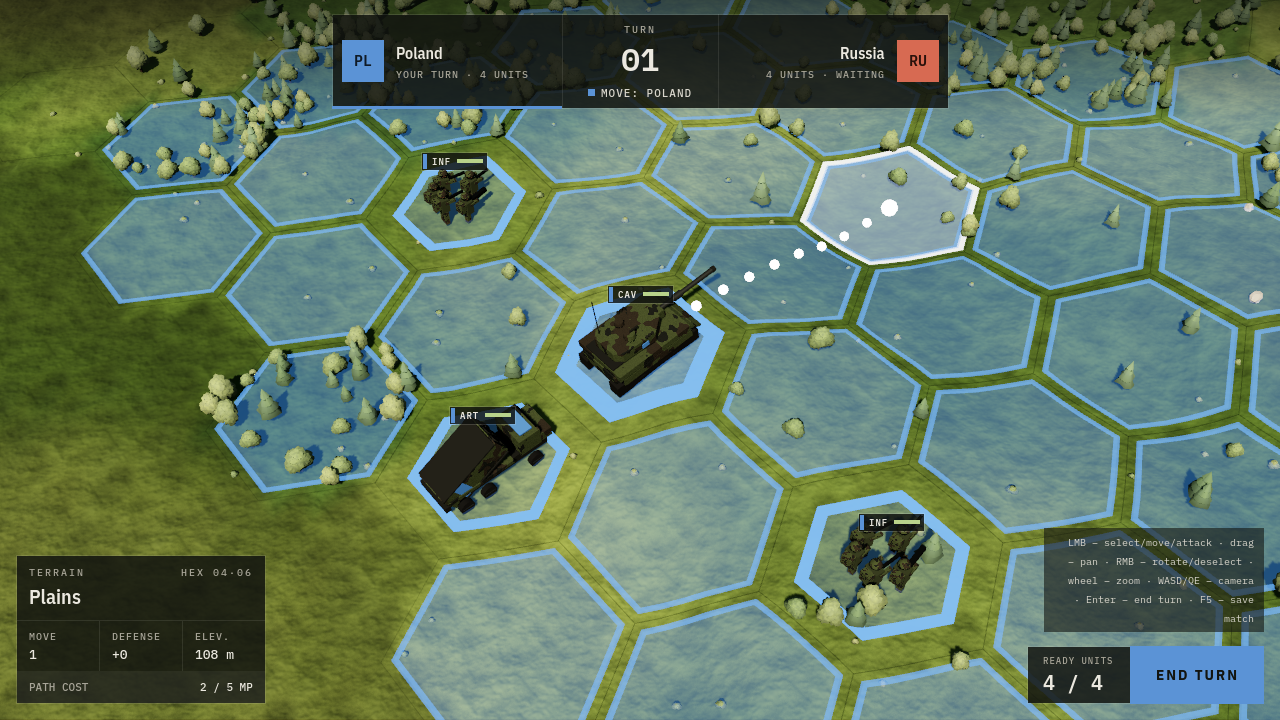
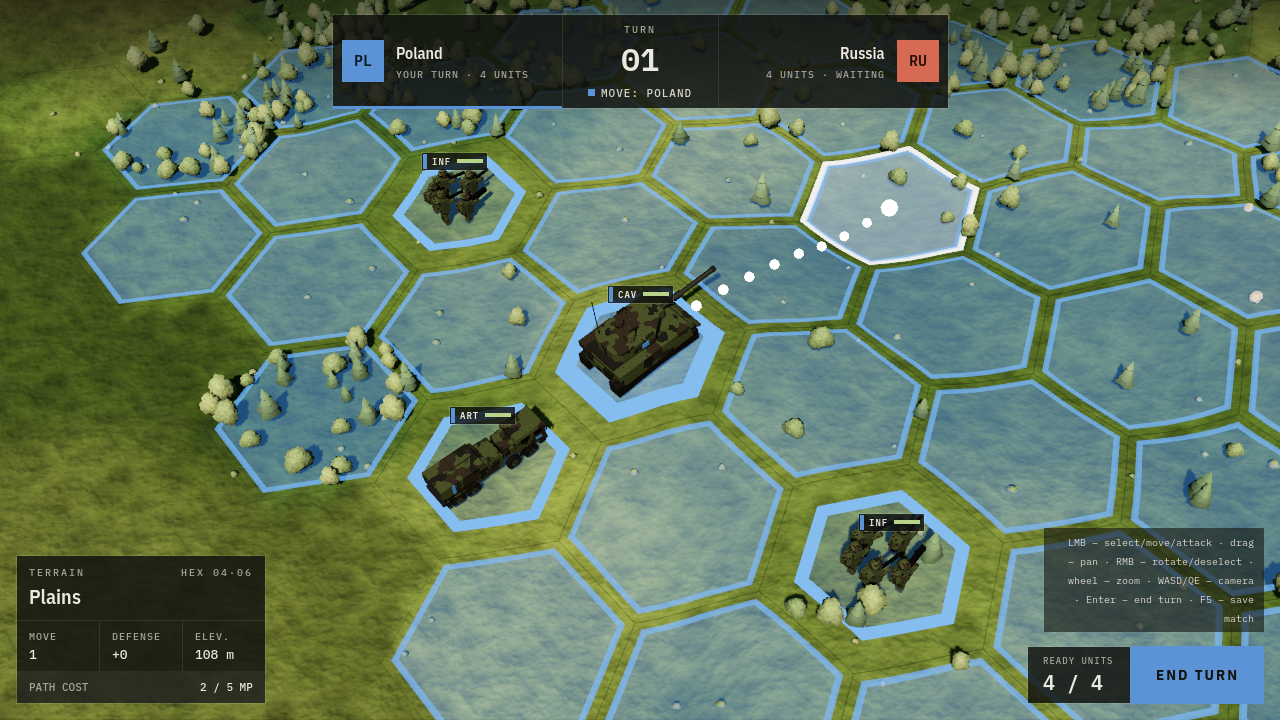
Homar-K model, temporarily used for Polish rocket artillery
Procedural Homar-K (K239PL) model built from its unit catalog entry
(blueprint, side reference, verified dimensions). Until TASK-039a adds
the real unit definitions, UnitModels.MODEL_STAND_INS maps Poland's
rocket_artillery to the homar_k model; Russia keeps the generic one.
Adds homar_k to the model contract kinds and refreshes the README shot.

Changed region(s): [[0.3125, 0.55, 0.4375, 0.7333]]

diff --git a/docs/design/units/units/homar_k/blueprint.md b/docs/design/units/units/homar_k/blueprint.md
@@ -1,0 +1,57 @@
+# Homar-K (K239PL) – model blueprint
+
+Model: `src/presentation/models/homar_k.gd`. Reference: `side_1.png` (clean side view, measured at
+~61 px/m: 670 px = 11 m bumper to rear).
+
+## Scale
+
+Real 11 × 2.8 × 3.3 m. At the nominal 1 unit = 10 m the length would be 1.1 × `MODEL_SCALE` 1.3 =
+1.43, over the 1.15 footprint budget, so the whole truck is scaled **uniformly** by
+`K = 0.078` model units per metre (1 unit = 12.8 m): 0.858 × 0.218 × 0.262 units before
+`MODEL_SCALE` (1.115 × 0.284 × 0.341 after). Proportions stay true; the render's `Real` line shows
+about −20 % on every axis because of this.
+
+All parts are written in photo metres (`x` from the front bumper, `h` above ground, `z` across) and
+converted by `_p()` / `_slab()`.
+
+## Parts (metres; model units = × 0.078)
+
+| Part | x (from front) | h | half width | Material | Built with |
+|---|---|---|---|---|---|
+| Wheels ×8 (`Wheel0..7`) | axles 1.85, 3.69, 7.95, 9.46 | r 0.70 | tyre 0.45 wide, centre z ±1.17 | rubber, camo hub, dark cap | `ModelParts.wheel` (new, shared) |
+| Cab (armoured, cab-over) | 0.10–3.15 | 1.45–3.12 (+roof cap to 3.25) | 1.27 | truck camo | merged `homar_k:body` |
+| Cab underside between wheels | 0.30–3.10 | 1.00–1.45 | 0.86 | truck camo | merged |
+| Equipment block + air-filter drums | 3.15–4.40 | 1.50–2.85 | 0.98 (drums r 0.27 at z ±1.06) | truck camo | merged |
+| Exhaust stack | 4.47 | 1.6–3.3 | r 0.08, z +0.9 | dark | merged `homar_k:dark` |
+| Middle module | 4.60–6.50 | 1.30–2.85 | 1.20 | truck camo | merged |
+| Lockers | 4.85–7.00 | 0.85–1.30 | 1.05 | truck camo | merged |
+| Rear deck (over rear axles) | 7.00–10.60 | 1.45–1.66 | 1.38 | truck camo | merged |
+| Frame rails | 0.40–10.80 | 1.00–1.50 | 0.50 | dark | merged |
+| Bumpers, grille, steps, mirrors, door seams, louvres, mudflaps, stabiliser legs | – | – | – | dark | merged |
+| Launcher base / turntable | 6.80–10.40 | 1.66–2.00 | 1.05 | dark | merged |
+| Windows (2 per side + 2 windscreen panes) | 0.5–1.26, 1.97–2.7 / front | 2.35–2.95 | – | glass | merged `homar_k:glass` |
+| Accent plates (doors both sides + cab front) | 0.55–1.20 | 1.72–2.05 | – | faction accent | merged `homar_k:accent` |
+| **Pod** launcher box (2 pods under one cover) | 6.52–10.95 | 2.00–3.36 | 1.40 | truck camo | `Pod` node, merged `homar_k:pod` |
+| Tilted front face | 6.25–6.55, top leaning 0.2 rad forward | 2.05–3.22 | 1.36 | truck camo | in `homar_k:pod` |
+| Rear face, centre seam, bottom rail | – | – | – | dark | `homar_k:pod_trim` |
+| Accent band on the pod sides | 9.55–9.85 | 2.1–3.34 | – | faction accent | `homar_k:pod_band` |
+| Tube caps 12 × r 0.17 | rear face | rows 2.38 / 2.96, columns ±0.42 around pod centres z ±0.7 | – | steel | `homar_k:pod_caps` |
+
+`Pod` pivot: on the front-bottom edge of the launcher box (x 6.52, h 2.0), turned 180° about Y so
+its +X runs to the rear (stowed tube ends face the rear). `Mouth0..11` sit 0.1 m behind the tube
+caps (pod-local x ≈ 0.36 > 0.2). A future elevation animation rotates `Pod` about its local Z.
+
+Each material is one merged mesh (`ModelParts.merged_mesh`), so the body has 8 mesh instances
+(budget 24); wheels add 4 each under their pivots.
+
+## Silhouette features
+
+1. **Long, low deck with two box pods behind the cab** – one flat-topped launcher box over the rear
+   two axles, top at 3.36 m (just above the cab roof 3.25 m), rear overhang past axle 4; a dark
+   centre seam on the top marks the two pods.
+2. **Pods retracted under a flat cover** – plain box, no rails; only the tilted front face, the dark
+   base below and the tube caps on the rear face.
+3. **Armoured three-seat cab-over cab** – tall flat-fronted box over axles 1–2, small windows, two
+   windscreen panes, steps under the doors and in front of axle 1, mirrors.
+4. **8×8, wheels grouped 2 + 2 with a gap** – axles at 1.85 / 3.69 and 7.95 / 9.46 m; the gap holds
+   the equipment block with drums, the exhaust stack, the middle module and lockers.
